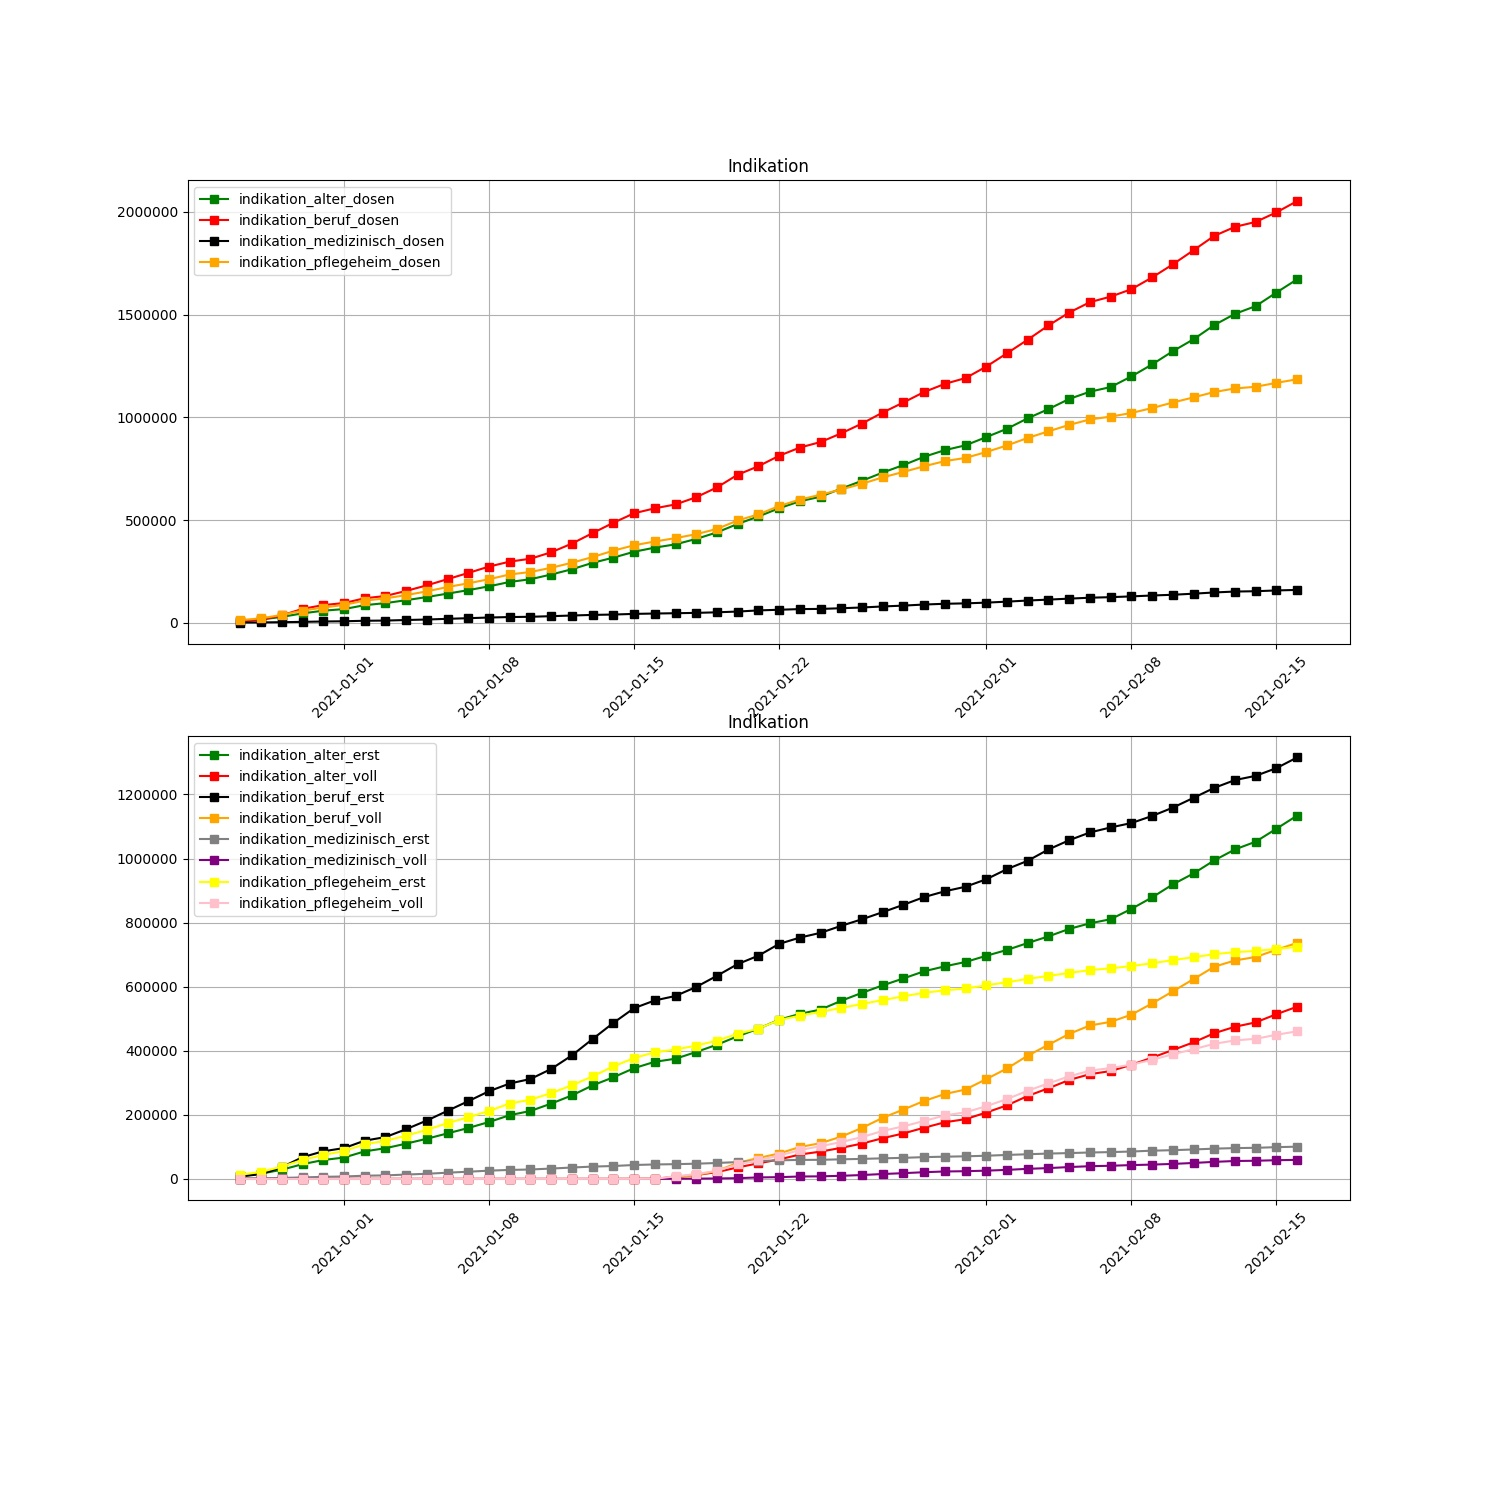
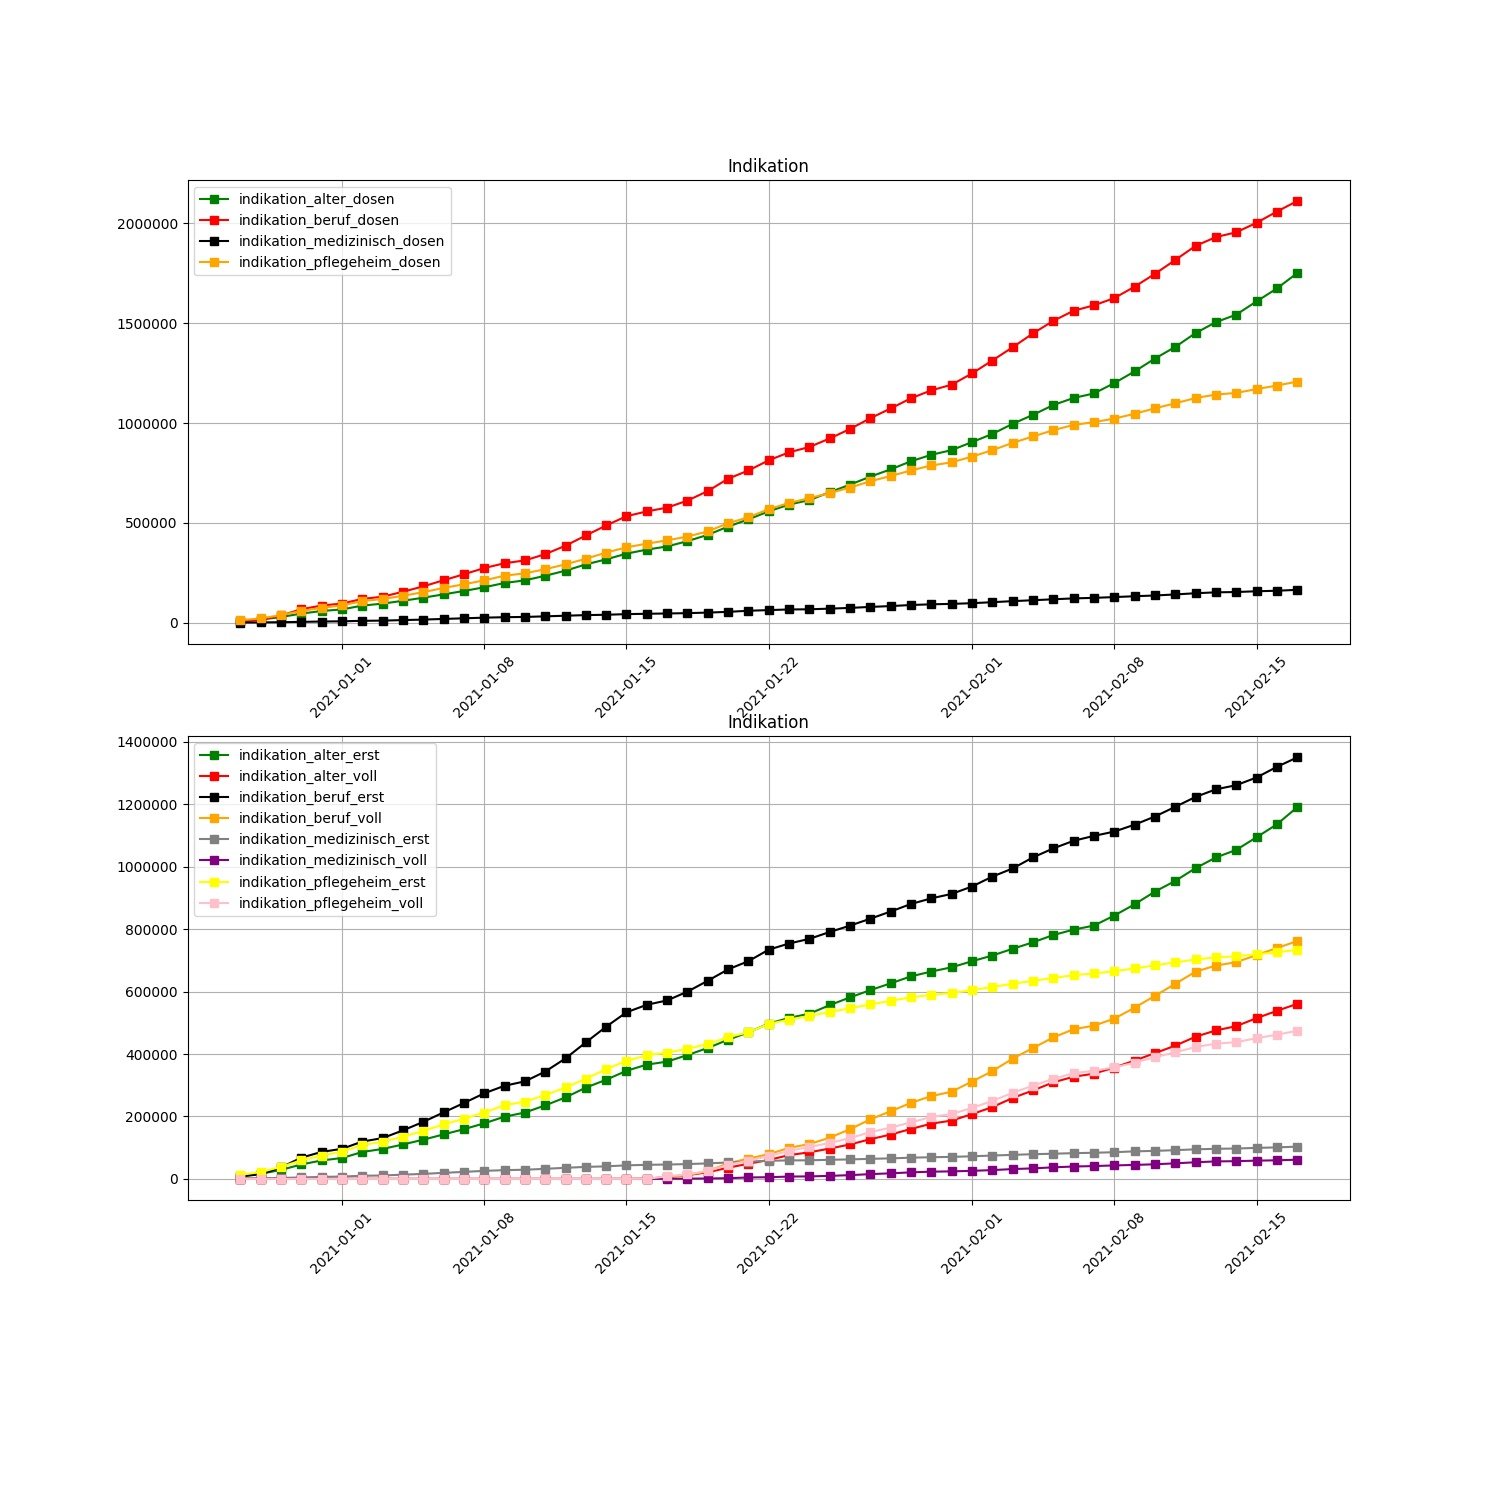
Crontab commit

diff --git a/Readme.md b/Readme.md
@@ -1,19 +1,19 @@
-# Corona vaccine Germany - Stand 2021-02-16
+# Corona vaccine Germany - Stand 2021-02-17
 ## Dashboard by [Simon Hamacher](https://www.shamacher.eu)
 ## Impfstoffe Übersicht
 **Impfstoffhersteller** | **verimpfte Dosen**
 -------- | :--------:
-Biontech | 4234503
-Moderna | 99971
-Astrazeneca | 87533
+Biontech | 4359311
+Moderna | 106523
+Astrazeneca | 106586
 
 
 ## Quoten
-**Total Verimpfte Dosen:** | 4422007
+**Total Verimpfte Dosen:** | 4572420
 -------- | :--------:
-**Erst-Impfquote** | 3.48 %
-**Voll-Impfquote** | 1.83 %
-**Imfungen Durchschnitt** | 85038.60 pro Tag
+**Erst-Impfquote** | 3.60 %
+**Voll-Impfquote** | 1.90 %
+**Imfungen Durchschnitt** | 86272.08 pro Tag
 ## Graphen
 <img src="Impfungen-Corona-01.jpg" alt="Corona-1" title="optionaler Titel" />
 <img src="Impfungen-Corona-02.jpg" alt="Corona-2" title="optionaler Titel" />
